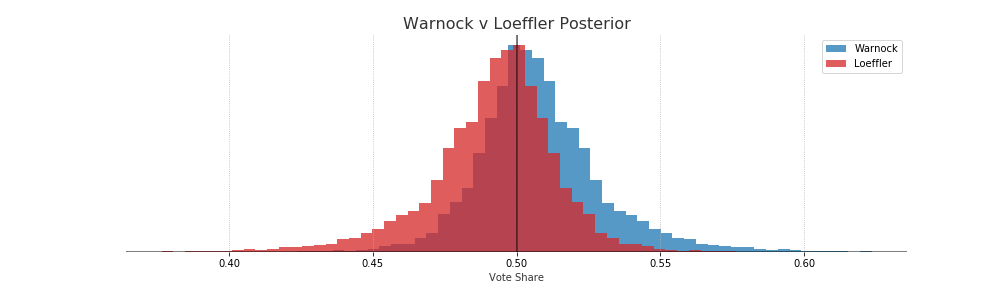
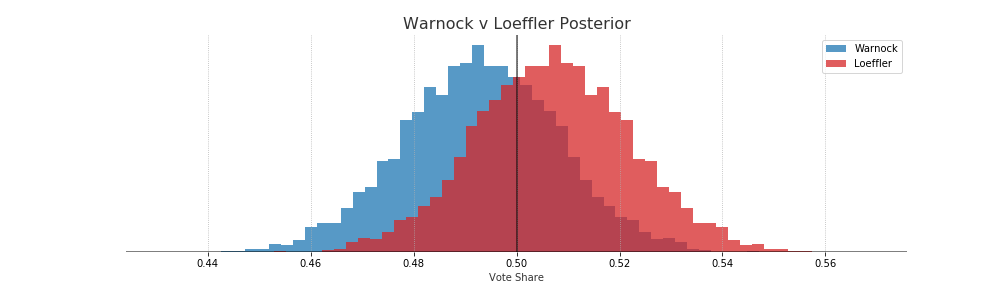
updated georgia post

diff --git a/_posts/2020-12-31-election.md b/_posts/2020-12-31-election.md
@@ -4,19 +4,69 @@ title: Georgia Runoff Elections
 published: False
 ---
 
-# Warnock: 63.7% - Loeffler: 36.3%
+# Warnock: 45.2% - Loeffler: 54.8%
 
 {: .center}
 ![WL Posterior](../images/ga_wl_posteriors.png)
 
-# Ossoff: 44.3% - Perdue: 55.7%
+# Ossoff: 42.1% - Perdue: 57.9%
 
 {: .center}
 ![WL Posterior](../images/ga_op_posteriors.png)
 
 ## Methods
 
-## Conclusions
+The probabilities were derived from a hierarchical partial pooling model of voteshares using [PyMC3](https://docs.pymc.io/). The hierarchical model assumes that there is some latent (unobservable) true voteshare for each candidate. We can get glimpses of that voteshare with the polls, however each pollster will have its own distribution of estimated voteshare due to sampling error, house effects or other some other error. Therefore we model the results of each pollster as some offset from the true unobservable vote share. 
+
+Assume that the number of voters for each candidate in a survey follows the Binomial distribution. 
+
+{: .center}
+![Likelihood](../images/survey_likelihood.gif)
+
+Each pollster then has a probability of success for a given candidate which is modeled by a beta distribution where the parameters are the latent estimated state voteshare modulated by some pollster offset. 
+
+{: .center}
+![Pollster Voteshare](../images/survey_offset_prob.gif)
+
+The offset for each pollster is given by a half normal distribution. These will roughly correspond to the numbers of successes and failures for the candidates in the polls. We know this value can not be negative which is why half normal is used. An exponential distribution could also work here. 
+
+{: .center}
+![Pollster Offset](../images/pollster_offsets.gif)
+
+Finally, the thing that we actually care about. The latent vote share of Georgia voters. This is modeled by a beta distribution and initialized by the results of the November election. 
+
+{: .center}
+![State Voteshare](../images/prior.gif)
+
+Essentially what is happening here is that we are estimating distributions for each pollster about what results we should expect from them. Assuming that those pollster distributions are influence by the actual state distribution as well as some pollster specific offset. Finally, the actual state distribution is driven by past events as well as the results from each of the polls.
+
+## Pollster Effects
+
+Interestingly, if we plot each of the learned pollster distributions the model tends to push the median voteshare slightly towards the Republicans when compared with the actual poll results. However each of the actual results are still well within the expected ranges of each pollsters distribution. This is likely due to the polls generally favoring the Democrats while the past election results favored the Republicans. 
+
+Plot the actual polls results in orange and the estimated poll distribution in gray. 
+
+{: .center}
+![WL Pollsters](../images/wl_pollster_lean.png)
+
+{: .center}
+![OP Pollsters](../iamges/op_pollster-lean.png)
 
 
-## References
+## Tuning Prior
+
+By using the beta distribution as our prior we can tune how much of an impact it has on the posterior distribution. A simple way of doing this is to use the sum of the two parameters for the beta distribution, alpha and beta. The larger the sum the more "peaky" or information the prior distribution, which gives it more weight in the final distribution. In other words, the more sure we are the outcome of the Nov 2020 election will repeat in the runoff the more weight we want to weight teh prior more, or set the sum of parameters higher. 
+
+There are good reasons to weight the prior highly here. The election was recent, the turnout is much larger than any poll sample size, and it was an actual election not a survey. 
+
+However, runoff turnout could be much different and things can change in public opinion. The Perdue-Ossoff results had the two candidates pitted against each other but the Warnock-Loeffler race also had other Republican and Democratic nominees. 
+
+In the end a sum of parameters equaling 50 was used, which allows for swings in voteshare of about +-1 20%. This uncertainty is quite large but it allows the polls to drive most of the posterior.  
+
+{: .center}
+![50 Prior](../images/ga_wl_50-priors.png)
+
+{: .center}
+![1000 Prior](../images/ga_wl_1000-priors.png)
+
+In terms of probabilities of election outcomes, if we use the sum of paramters of 1000 prior we get a roughly 70% win probability for republican politicians. However this is because we would essentially be saying that the results of the November election will be repeated and we shouldn't put too much weight on the polls. Whether or not this is a good assumption is certainly up to debate and people more versed in Georgia politics can have that debate. 
